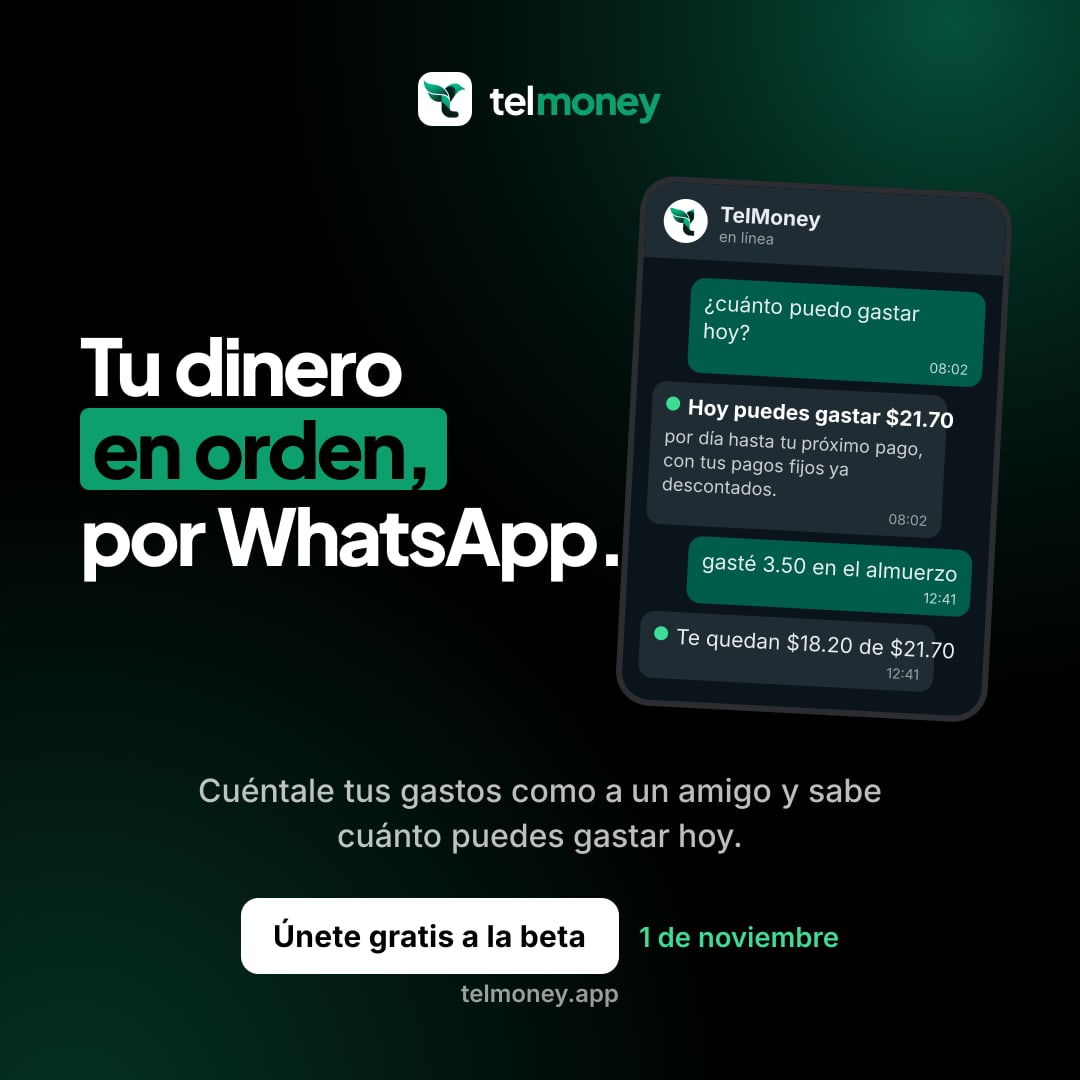
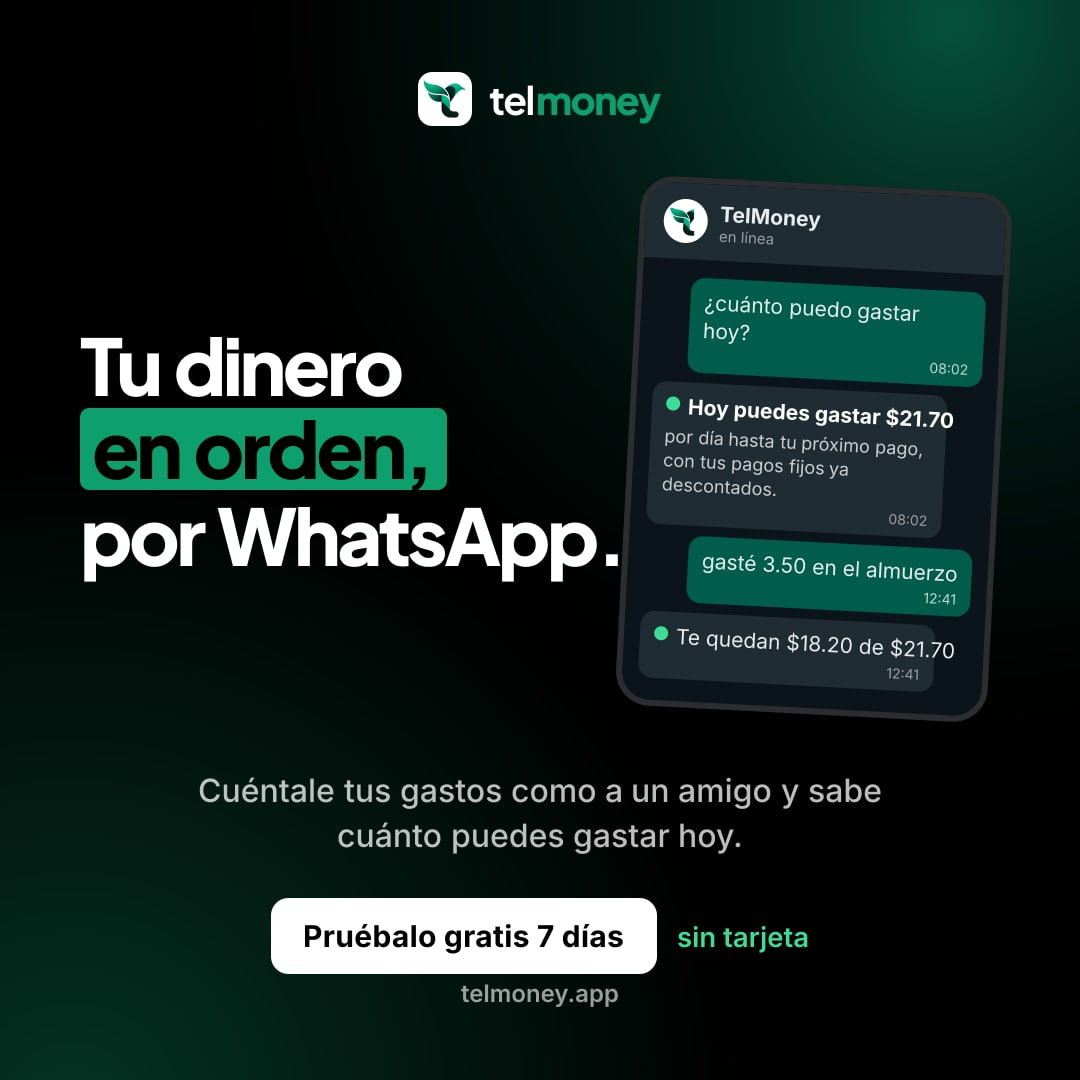
feat(beta): la beta abre el 2 de noviembre

Changed region(s): [[0.2139, 0.825, 0.7944, 0.9167]]

diff --git a/src/config.ts b/src/config.ts
@@ -25,8 +25,8 @@ export const CTA = LAUNCHED
   ? { label: 'Pruébalo gratis', href: WHATSAPP_URL, external: true, cursor: 'Pruébalo' }
   : { label: 'Únete a la beta', href: '#beta', external: false, cursor: 'Únete' };
 
-/** Apertura de la beta: 1 de noviembre de 2026, medianoche en El Salvador (UTC−6). */
-export const RELEASE_AT = '2026-11-01T00:00:00-06:00';
+/** Apertura de la beta: 2 de noviembre de 2026, medianoche en El Salvador (UTC−6). */
+export const RELEASE_AT = '2026-11-02T00:00:00-06:00';
 
 /** Datos fijos de la marca. Los textos para buscadores y redes viven en src/seo/meta.ts. */
 export const SITE = {

diff --git a/src/seo/share.ts b/src/seo/share.ts
@@ -17,7 +17,7 @@ export const shareUrl = (network: Network) => {
 
 /** Mensajes: cercanos, en español neutro, con el beneficio concreto y la acción al final.
  *  WhatsApp y Telegram son conversaciones: van en primera persona, como lo diría un amigo. */
-const CTA = LAUNCHED ? 'Pruébalo gratis' : 'La beta abre el 1 de noviembre y es gratis';
+const CTA = LAUNCHED ? 'Pruébalo gratis' : 'La beta abre el 2 de noviembre y es gratis';
 
 export const shareText = {
   chat: `Mira esto 👀 TelMoney te dice cuánto puedes gastar hoy, solo con mensajes de WhatsApp. ${CTA}:`,

diff --git a/src/seo/meta.ts b/src/seo/meta.ts
@@ -9,7 +9,7 @@
 import { LAUNCHED, SITE } from '../config';
 
 // Corto a propósito (≈90 caracteres): WhatsApp muestra 2 líneas y Facebook 1; el beneficio va primero.
-const CTA_SOCIAL = LAUNCHED ? 'Pruébalo gratis.' : 'Beta gratis el 1 de noviembre.';
+const CTA_SOCIAL = LAUNCHED ? 'Pruébalo gratis.' : 'Beta gratis el 2 de noviembre.';
 
 export const SEO = {
   /** Idioma del contenido: español neutro (se lanza en El Salvador, pensado para Latinoamérica). */

diff --git a/docs/seo-y-redes.md b/docs/seo-y-redes.md
@@ -23,15 +23,15 @@ Cómo encuentra Google a TelMoney, cómo se ve el link cuando alguien lo compart
 
 - **Lema:** «Tu dinero en orden, por WhatsApp.» Se usa «dinero» y no modismos locales, para que lo entienda gente de cualquier país.
 - **Promesa en una línea:** «Sabe cuánto puedes gastar hoy con un mensaje de WhatsApp.»
-- **Llamado a la acción:** hasta el 1/11, «Únete gratis a la beta · 1 de noviembre». Desde el lanzamiento, «Pruébalo gratis 7 días». Cambia solo con `PUBLIC_WHATSAPP_NUMBER`.
+- **Llamado a la acción:** hasta el 1/11, «Únete gratis a la beta · 2 de noviembre». Desde el lanzamiento, «Pruébalo gratis 7 días». Cambia solo con `PUBLIC_WHATSAPP_NUMBER`.
 
 | Dónde | Texto | Por qué |
 |---|---|---|
 | Google (título) | TelMoney: control de gastos por WhatsApp \| Tu dinero en orden | Lo que se busca va al principio; el lema da la personalidad |
 | Google (descripción) | Anota tus gastos con un mensaje, un audio o la foto del recibo… Únete a la beta. | Cómo se usa, el beneficio y la acción |
 | Al compartir (título) | Tu dinero en orden, por WhatsApp | El nombre ya aparece aparte (`og:site_name`) |
-| Al compartir (descripción) | Sabe cuánto puedes gastar hoy con un mensaje de WhatsApp. Beta gratis el 1 de noviembre. | Entra completa en las 2 líneas de WhatsApp |
-| Botón WhatsApp / Telegram | Mira esto 👀 TelMoney te dice cuánto puedes gastar hoy… La beta abre el 1 de noviembre y es gratis: | Suena a un amigo, no a un anuncio |
+| Al compartir (descripción) | Sabe cuánto puedes gastar hoy con un mensaje de WhatsApp. Beta gratis el 2 de noviembre. | Entra completa en las 2 líneas de WhatsApp |
+| Botón WhatsApp / Telegram | Mira esto 👀 TelMoney te dice cuánto puedes gastar hoy… La beta abre el 2 de noviembre y es gratis: | Suena a un amigo, no a un anuncio |
 | Botón X | Tu dinero en orden, por WhatsApp 💚 … 👇 | Corto, con el lema |
 | Correo | Asunto: «Para que el dinero te alcance todo el mes» | Beneficio en el asunto |
 

diff --git a/docs/resumen-de-trabajo.md b/docs/resumen-de-trabajo.md
@@ -71,7 +71,7 @@ La guía completa está en [`seo-y-redes.md`](seo-y-redes.md). En resumen:
   - robots.txt y sitemap.
   - Páginas legales provisionales con `noindex`.
 - **Al compartir** (WhatsApp, Facebook, LinkedIn, X, Telegram):
-  - Imagen de 1200×630 (70 KB) con el lema, un chat que responde «Hoy puedes gastar $21.70» y «Únete gratis a la beta · 1 de noviembre».
+  - Imagen de 1200×630 (70 KB) con el lema, un chat que responde «Hoy puedes gastar $21.70» y «Únete gratis a la beta · 2 de noviembre».
   - Título «Tu dinero en orden, por WhatsApp» y una descripción que entra completa en WhatsApp.
 - **Botones para compartir:**
   - Están en el «¡Listo!» de la beta y en el footer.

diff --git a/docs/planes.md b/docs/planes.md
@@ -2,6 +2,8 @@
 
 *16 de octubre de 2026. Decisión de Josué: agregar un plan gratis con límites; los de pago no cambian de precio. Se revisa según la cantidad de usuarios.*
 
+**Beta:** abre el **2 de noviembre de 2026** y dura hasta inicios de diciembre. Durante la beta, Free se queda generoso (10 interacciones al día) para que la gente lo pruebe de verdad; los límites se ajustan con los datos reales al terminar.
+
 | Plan (clave interna) | Precio | Para quién |
 |---|---|---|
 | **Free** (`gratis`) | $0 | Empezar a ordenarse sin pagar |
